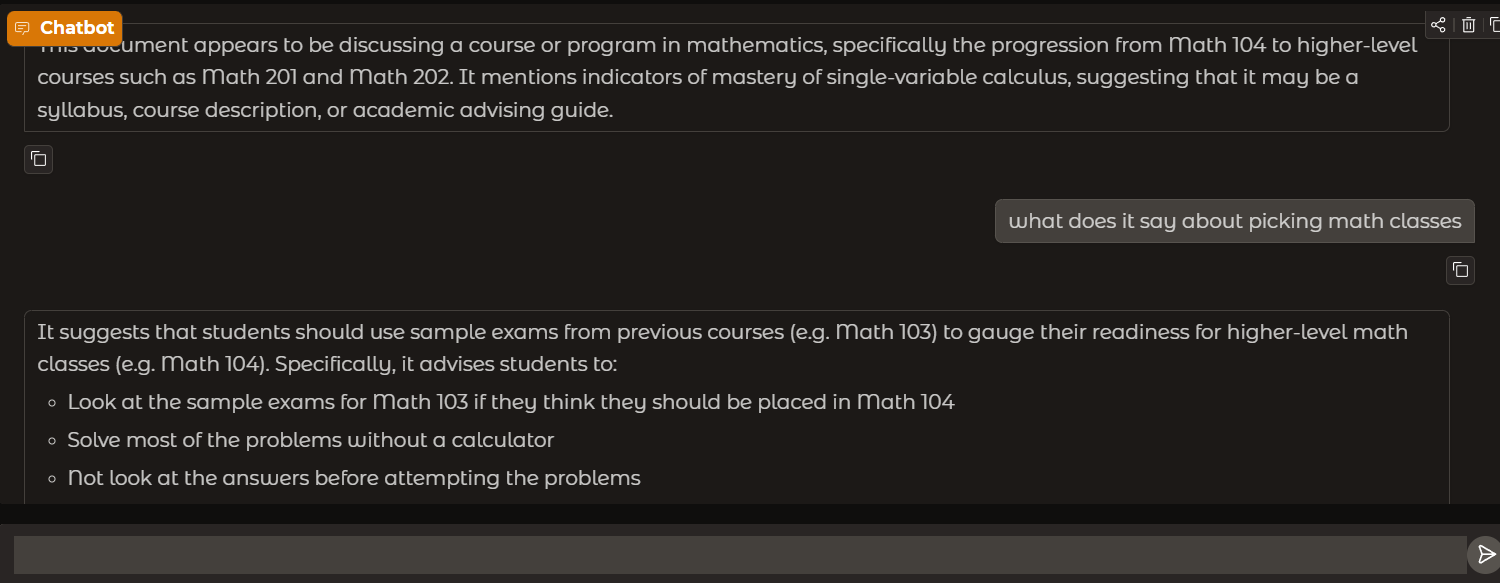
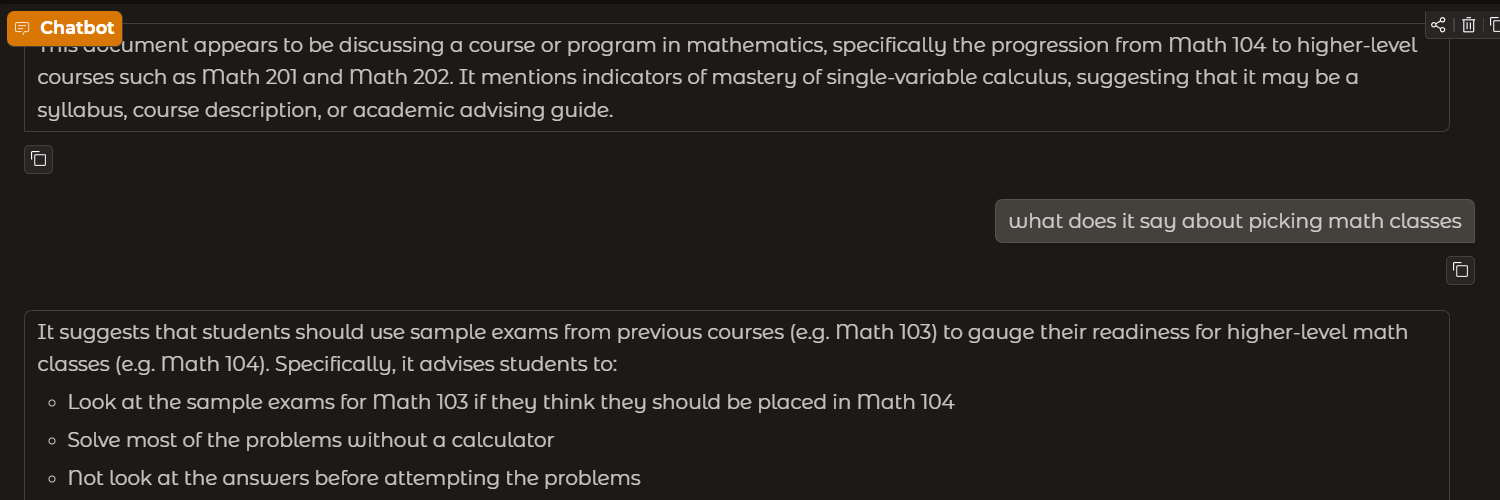
Widen Agentic RAG card and enlarge screenshot for readability
- Span the RAG project card across two grid columns on tablet and up
- Wrap the screenshot in a taller frame with cover crop to zoom chat UI text
- Trim vertical padding from the project-rag.png asset

Changed region(s): [[0.0307, 0.33, 1.0, 0.84], [0.0, 0.0, 1.0, 0.33], [0.0, 0.87, 1.0, 0.99]]

diff --git a/portfolio/css/style.css b/portfolio/css/style.css
@@ -1219,6 +1219,12 @@ body.is-ready .hero__doodle--flower {
   }
 }
 
+@media (min-width: 768px) {
+  .project-card--rag {
+    grid-column: span 2;
+  }
+}
+
 /* Card shell — tape and sheet lift together */
 .project-card {
   position: relative;
@@ -1325,14 +1331,22 @@ body.is-ready .hero__doodle--flower {
   transition: filter var(--transition-base);
 }
 
-.project-card__img--rag {
-  height: 200px;
-  object-fit: contain;
-  object-position: center center;
-  background: #2a2420;
-  filter: brightness(1.35) contrast(1.2) saturate(1.1);
-  padding: 6px;
+.project-card__img-wrap--rag {
+  overflow: hidden;
+  height: clamp(280px, 36vw, 420px);
   border-radius: 2px;
+  background: #2a2420;
+  box-shadow: 0 2px 8px rgba(0, 0, 0, 0.14);
+}
+
+.project-card__img--rag {
+  width: 100%;
+  height: 100%;
+  object-fit: cover;
+  object-position: center 38%;
+  filter: brightness(1.4) contrast(1.28) saturate(1.1);
+  padding: 0;
+  box-shadow: none;
 }
 
 .project-card.is-lifted .project-card__img {

diff --git a/portfolio/index.html b/portfolio/index.html
@@ -279,12 +279,14 @@
               </div>
             </article>
 
-            <article class="project-card" data-reveal data-delay="200" data-tilt="-1">
+            <article class="project-card project-card--rag" data-reveal data-delay="200" data-tilt="-1">
               <div class="project-card__lift">
                 <div class="project-card__tape project-card__tape--tilt-left" aria-hidden="true"></div>
                 <div class="project-card__sheet">
                 <div class="project-card__body">
-                  <img class="project-card__img project-card__img--rag" src="assets/images/project-rag.png" alt="Agentic RAG document explorer Gradio UI" width="640" height="360" loading="lazy">
+                  <div class="project-card__img-wrap project-card__img-wrap--rag">
+                    <img class="project-card__img project-card__img--rag" src="assets/images/project-rag.png" alt="Agentic RAG document explorer Gradio UI" width="1500" height="500" loading="lazy">
+                  </div>
                   <div class="project-card__meta">
                     <h3 class="project-card__title text-fade-in" style="--d:0">Agentic RAG</h3>
                   </div>